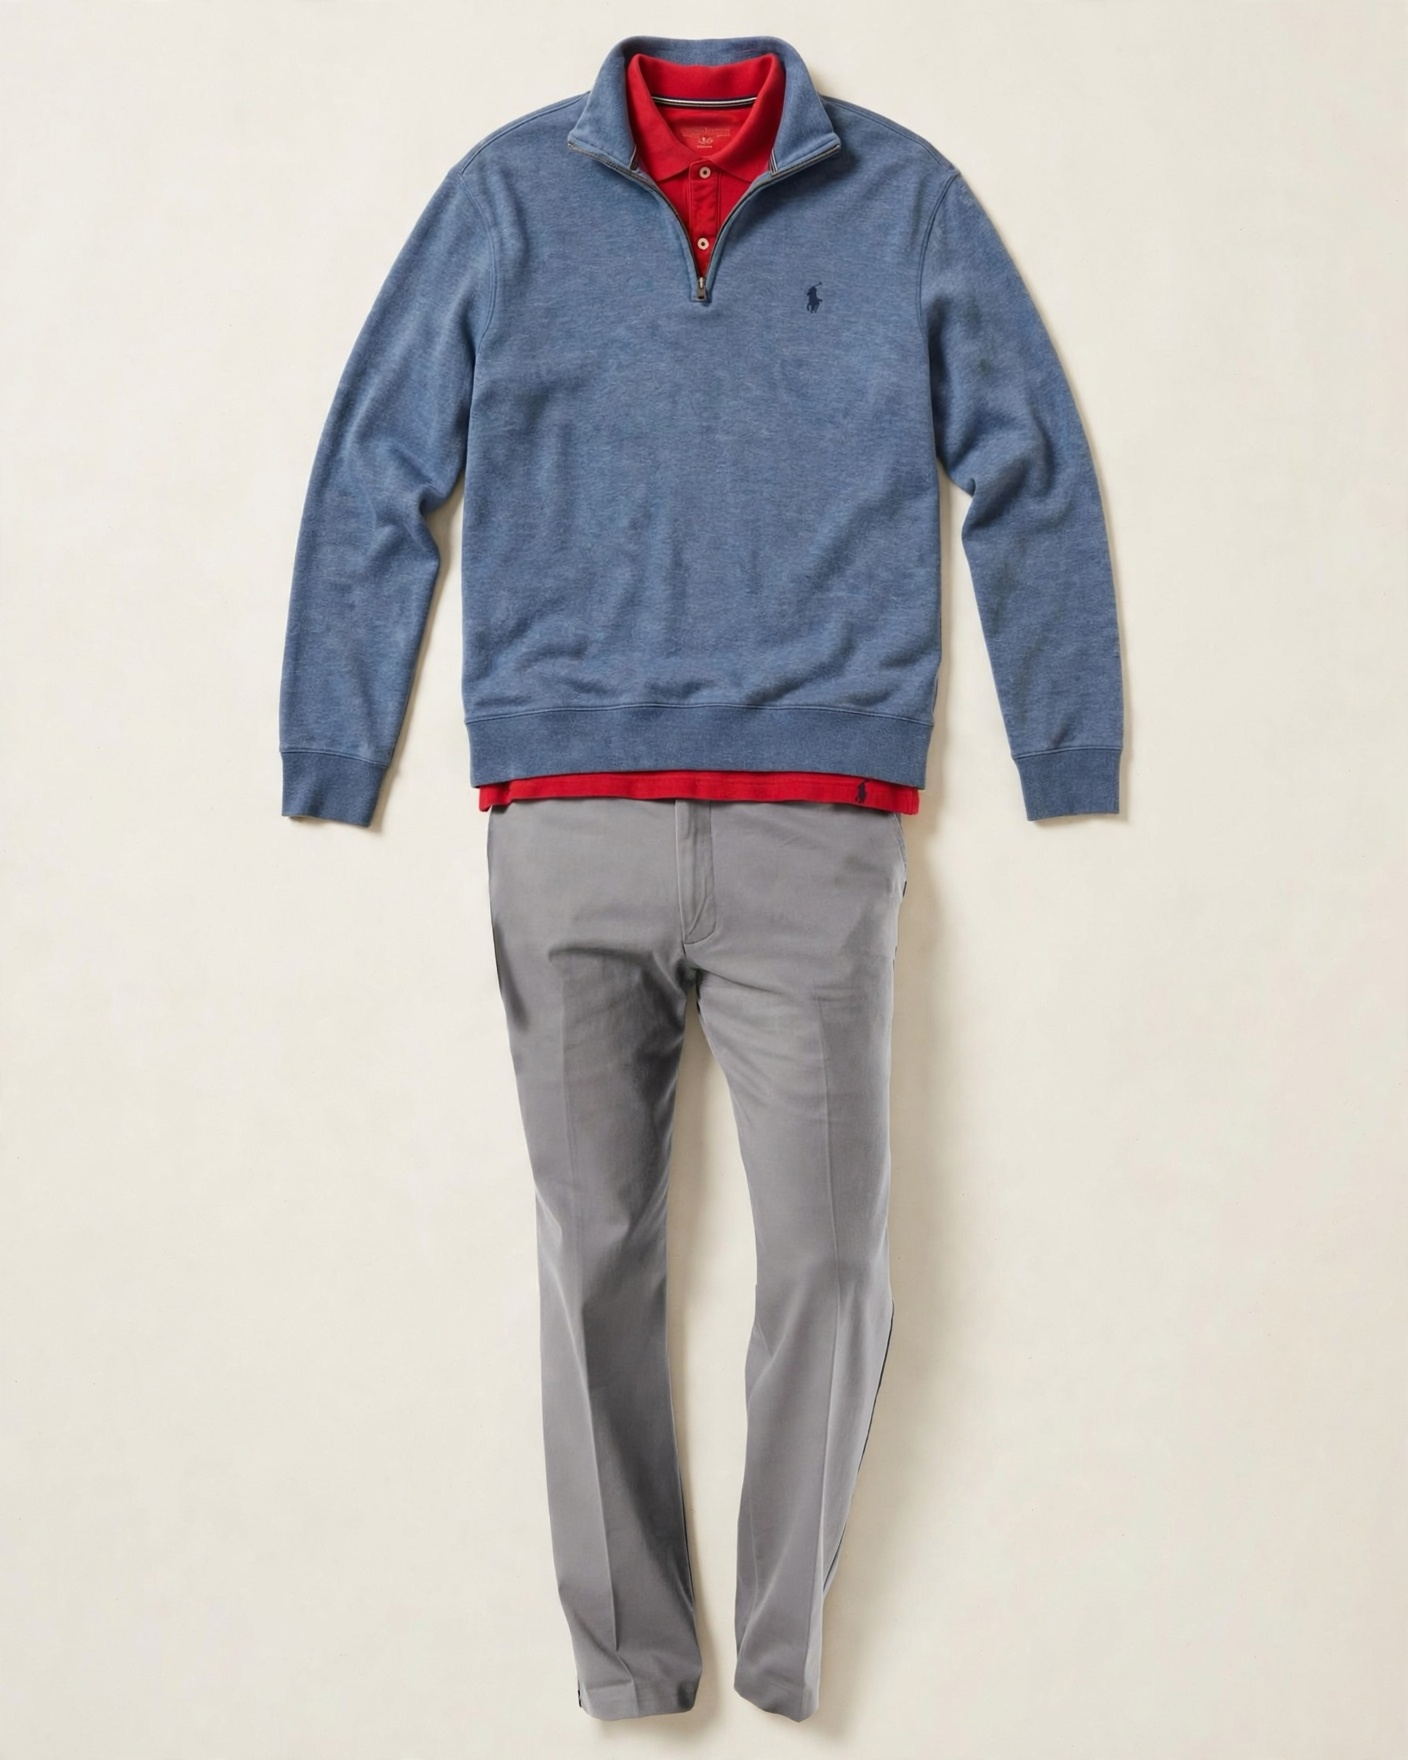
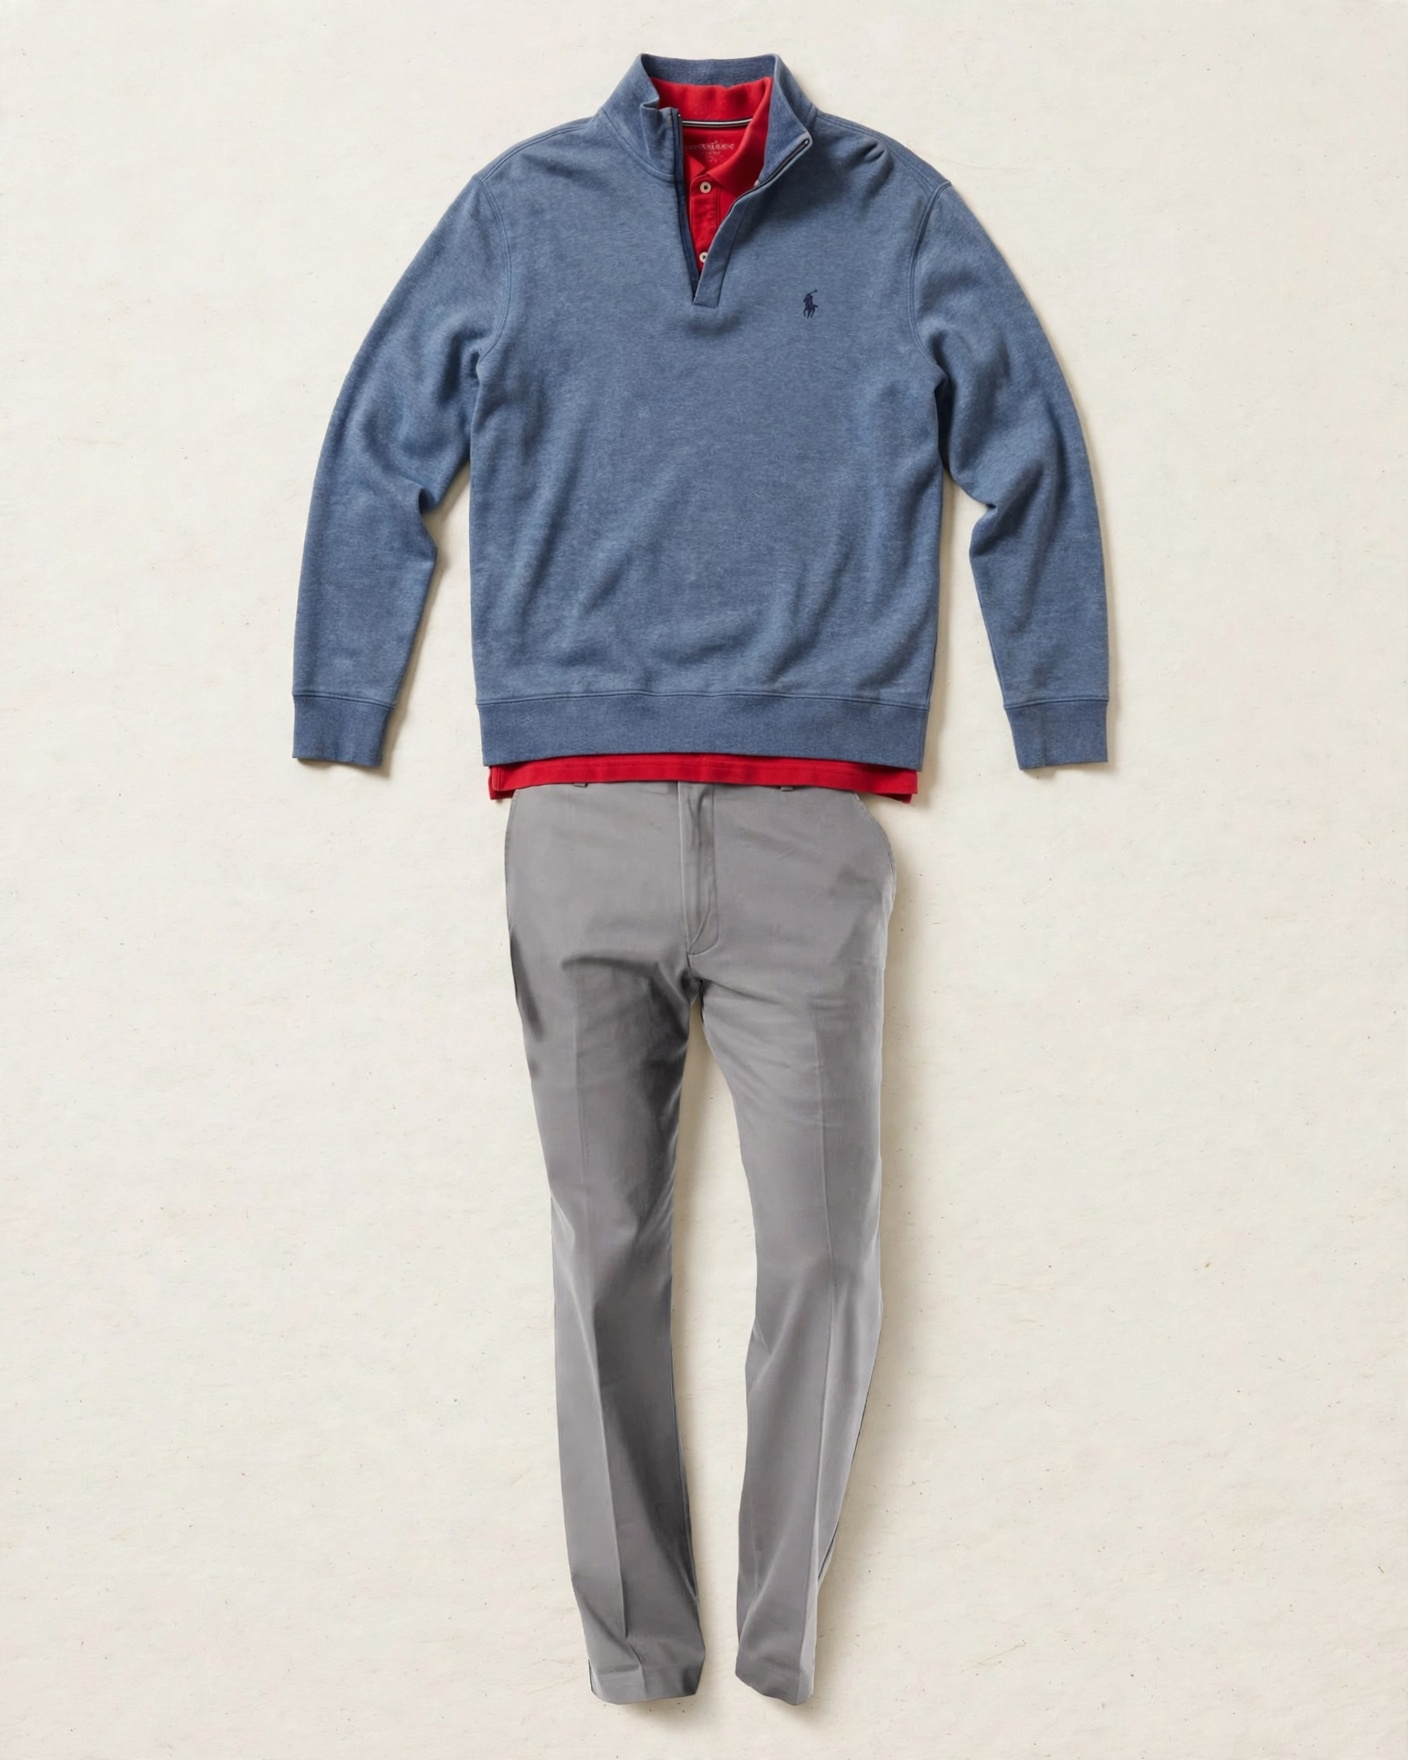
fix: pictures get each piece's colour spelled out (khaki is a style when a colour is named) and the whole outfit in frame

Changed region(s): [[0.1875, 0.0, 0.8125, 1.0], [0.5938, 0.1875, 0.625, 0.2188], [0.5625, 0.1562, 0.5938, 0.1875]]

diff --git a/tests/models/renderPrompt.test.ts b/tests/models/renderPrompt.test.ts
@@ -10,10 +10,19 @@ const boots = { cutoutUrl: '/boots.png', name: 'Black leather boots', category: 
 test('flat lay: every image is named with its piece and details, in order; the name decides the colour', () => {
   const p = renderPrompt('flatlay', [quarterZip, polo, jeans])
   expect(p).toContain('exactly 3 pieces')
-  expect(p).toContain('Image 1: Heather blue quarter-zip (top; long sleeves; classic fit; cotton, quarter zip)')
-  expect(p).toContain('Image 2: Red pique polo (top; pique)')
-  expect(p).toContain('Image 3: Dark indigo jeans (bottom; slim fit; denim)')
-  expect(p).toMatch(/where a name gives a colour, show that colour/i)
+  expect(p).toContain('Image 1: Heather blue quarter-zip (top; colour: Heather blue; long sleeves; classic fit; cotton, quarter zip)')
+  expect(p).toContain('Image 2: Red pique polo (top; colour: Red; pique)')
+  expect(p).toContain('Image 3: Dark indigo jeans (bottom; colour: Dark indigo; slim fit; denim)')
+  expect(p).toMatch(/show each piece in its given colour/i)
+})
+
+test('the colour comes from the name, and "khaki" there is the trouser style when another colour is named', () => {
+  const dockers = { ...jeans, name: 'Burma Grey Dockers Easy Straight Fit Khaki Stretch Pants', colors: ['gray'], tags: ['khaki', 'stretch'], subcategory: 'trousers' as const, fit: null }
+  const p = renderPrompt('flatlay', [quarterZip, dockers])
+  expect(p).toContain('Image 2: Burma Grey Dockers Easy Straight Fit Khaki Stretch Pants (bottom; colour: Burma Grey;')
+  expect(p).toContain('Image 1: Heather blue quarter-zip (top; colour: Heather blue;')
+  expect(renderPrompt('flatlay', [{ ...dockers, name: 'Khaki chinos' }])).toContain('colour: Khaki;')
+  expect(renderPrompt('flatlay', [{ ...jeans, name: 'Dark wash jeans', colors: ['indigo'] }])).toContain('colour: indigo;')
 })
 
 test('flat lay: with no shoes it says so and never asks for them', () => {
@@ -39,12 +48,12 @@ test('pieces go outerwear, tops, bottoms, shoes', () => {
 
 test('mannequin: names every piece, asks for a featureless mannequin, says no shoes when there are none', () => {
   const p = renderPrompt('mannequin', [quarterZip, jeans])
-  expect(p).toContain('Image 1: Heather blue quarter-zip (top; long sleeves; classic fit; cotton, quarter zip)')
-  expect(p).toContain('Image 2: Dark indigo jeans (bottom; slim fit; denim)')
+  expect(p).toContain('Image 1: Heather blue quarter-zip (top; colour: Heather blue; long sleeves; classic fit; cotton, quarter zip)')
+  expect(p).toContain('Image 2: Dark indigo jeans (bottom; colour: Dark indigo; slim fit; denim)')
   expect(p).toMatch(/featureless matte white mannequin \(no face, no hair, no skin\)/)
   expect(p).toContain('exactly these 2 pieces')
   expect(p).toContain('There are no shoes in this outfit: show no shoes.')
-  expect(p).toMatch(/where a name gives a colour, show that colour/i)
+  expect(p).toMatch(/show each piece in its given colour/i)
   expect(renderPrompt('mannequin', [quarterZip, jeans, boots])).not.toMatch(/no shoes/)
 })
 
@@ -61,8 +70,8 @@ test('mannequin and try-on: layers inside to outside with sleeve lengths; a shor
 
 test('sleeve length goes in each piece’s details, from its tags or name', () => {
   const p = renderPrompt('flatlay', [quarterZip, redPolo])
-  expect(p).toContain('Image 1: Heather blue quarter-zip (top; long sleeves;')
-  expect(p).toContain('Image 2: Red cotton polo shirt (top; short sleeves;')
+  expect(p).toContain('Image 1: Heather blue quarter-zip (top; colour: Heather blue; long sleeves;')
+  expect(p).toContain('Image 2: Red cotton polo shirt (top; colour: Red; short sleeves;')
 })
 
 test('a single top says nothing about layering', () => {
@@ -72,7 +81,7 @@ test('a single top says nothing about layering', () => {
 test('brand reaches the prompt only as a logo the tags mention; no added text', () => {
   expect(renderPrompt('flatlay', [quarterZip])).not.toContain('Polo Ralph Lauren')
   const logo = { ...quarterZip, tags: ['cotton', 'embroidered logo'] }
-  expect(renderPrompt('mannequin', [logo, jeans])).toContain('(top; long sleeves; classic fit; logo: Polo Ralph Lauren; cotton, embroidered logo)')
+  expect(renderPrompt('mannequin', [logo, jeans])).toContain('(top; colour: Heather blue; long sleeves; classic fit; logo: Polo Ralph Lauren; cotton, embroidered logo)')
   for (const mode of ['flatlay', 'mannequin', 'tryon'] as const) expect(renderPrompt(mode, [quarterZip, jeans])).toMatch(/no added text or captions, and no readable lettering on labels/i)
 })
 

diff --git a/src/lib/models/real/renderer.ts b/src/lib/models/real/renderer.ts
@@ -10,7 +10,14 @@ import { metaFetch, toDataUrl } from './client'
 // colours come from the name: the owner may have corrected it ("Heather blue…") while the tagged colours still say grey.
 // A brand on its own invites printed lettering, so it goes in only as the logo the tags say is there.
 const logo = (p: RenderPiece) => p.brand && p.tags.some((t) => /logo/i.test(t)) ? `logo: ${p.brand}` : null
-const describe = (p: RenderPiece) => [p.category, sleeves(p) && `${sleeves(p)} sleeves`, p.fit && `${p.fit} fit`, logo(p), p.tags.join(', ')].filter(Boolean).join('; ')
+const SHADE = /\b(?:(?:light|dark|pale|deep|bright|heather|burma|forest|royal|sky|olive|charcoal|navy|stone)\s+)?(?:black|white|cream|ivory|gr[ae]y|charcoal|navy|blue|indigo|green|olive|red|burgundy|maroon|pink|purple|yellow|orange|brown|tan|beige|camel|khaki|stone|sand)\b/gi
+/** The colour to draw, spelled out: the name's colour words (corrected by the owner) over the tags. "Khaki" in a name is the
+ *  trouser style when another colour is named: "Burma Grey … Khaki Stretch Pants" came back beige. */
+function colour(p: RenderPiece): string | null {
+  const said = p.name.match(SHADE) ?? []
+  return said.find((w) => !/^khaki$/i.test(w)) ?? said[0] ?? (p.colors.join(' and ') || null)
+}
+const describe = (p: RenderPiece) => [p.category, colour(p) && `colour: ${colour(p)}`, sleeves(p) && `${sleeves(p)} sleeves`, p.fit && `${p.fit} fit`, logo(p), p.tags.join(', ')].filter(Boolean).join('; ')
 
 /** On a body, what goes over what: left to guess, the model gave a short-sleeved polo long red cuffs under a quarter-zip. */
 function worn(pieces: RenderPiece[]): string {
@@ -52,14 +59,14 @@ const noShoes = (pieces: RenderPiece[]) => pieces.some((p) => p.category === 'sh
 export function renderPrompt(mode: 'tryon' | 'mannequin' | 'flatlay', pieces: RenderPiece[]): string {
   const first = mode === 'tryon' ? 2 : 1
   const list = renderOrder(pieces).map((p, i) => `Image ${i + first}: ${p.name} (${describe(p)})`).join('\n')
-  const keep = 'The names are the owner\'s own descriptions. Keep each piece as named and photographed: its sleeve length, collar, buttons, logos and fabric. Where a name gives a colour, show that colour, even if the photo\'s lighting makes it look different. Do not restyle or swap anything.'
+  const keep = 'The names are the owner\'s own descriptions. Keep each piece as named and photographed: its sleeve length, collar, buttons, logos and fabric. Show each piece in its given colour, even if the photo\'s lighting makes it look different. Do not restyle or swap anything.'
   if (mode === 'tryon') {
     return `Image 1 is a person. Dress this exact person in exactly these ${pieces.length} pieces, keeping their face, body and pose:\n${list}${worn(pieces)}\n${keep} Replace all of the clothes they are wearing.${pieces.some((p) => p.category === 'shoes') ? '' : ' Keep the shoes they are already wearing.'} Full-length photo, plain light background, natural light. No added text or captions, and no readable lettering on labels.`
   }
   if (mode === 'mannequin') {
     return `A full-length studio photograph of a featureless matte white mannequin (no face, no hair, no skin) with a build that suits these clothes, standing on a plain light background, dressed in exactly these ${pieces.length} pieces:\n${list}${worn(pieces)}\n${keep}${noShoes(pieces)} No added text or captions, and no readable lettering on labels.`
   }
-  return `An overhead flat-lay photograph of exactly ${pieces.length} pieces, one per input image, on warm off-white paper (#E9E5DC), evenly lit, soft natural shadows:\n${list}\n${keep}\n${layout(pieces)} Every piece whole and inside the frame, with a margin of paper around the outfit. Nothing else in frame: no people, props or extra clothing. No added text or captions, and no readable lettering on labels.`
+  return `An overhead flat-lay photograph of exactly ${pieces.length} pieces, one per input image, on warm off-white paper (#E9E5DC), evenly lit, soft natural shadows:\n${list}\n${keep}\n${layout(pieces)} Shot from far enough away that the whole outfit fits, from the top of the collar to the trouser hems or shoes, with bare paper showing on all four sides: nothing cut off at an edge. Nothing else in frame: no people, props or extra clothing. No added text or captions, and no readable lettering on labels.`
 }
 
 export const realRenderer: Renderer = {

diff --git a/src/lib/renderCache.ts b/src/lib/renderCache.ts
@@ -6,7 +6,7 @@ import { getStorage, MEDIA_PREFIX, userKey } from '@/lib/storage'
 import type { StorageLike } from '@/lib/storage'
 
 /** Bump when the render prompt changes, so looks drawn under the old prompt are drawn again */
-export const RENDER_VERSION = 4
+export const RENDER_VERSION = 5
 
 /** What the picture depends on: the view, each piece as the renderer is told about it, and the owner's photo for a try-on.
  *  Piece order doesn't matter (the renderer sorts them). */
